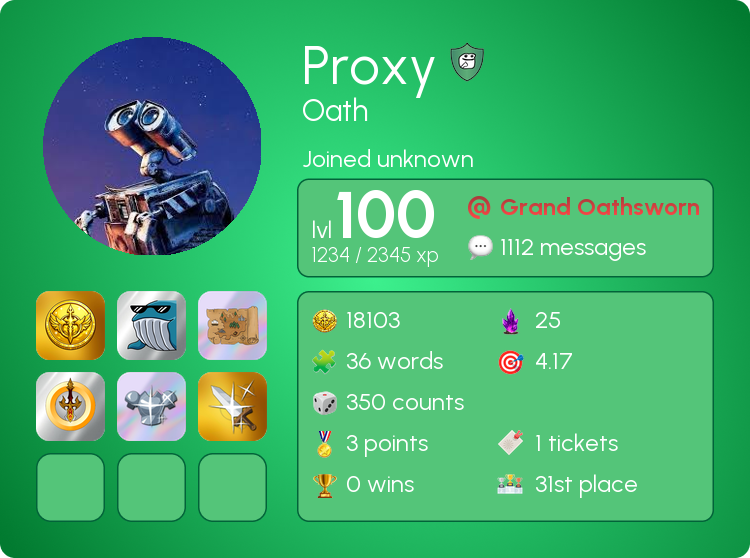
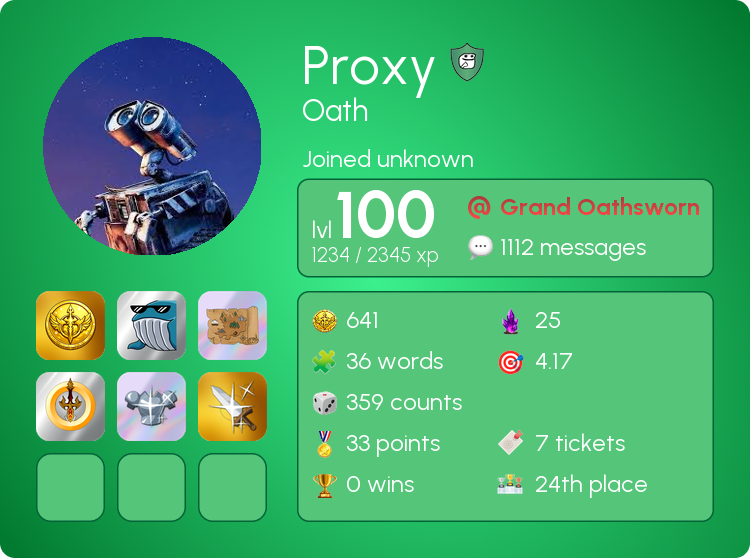
Changes to black jack ++

diff --git a/economy/gamba/blackjack_view.py b/economy/gamba/blackjack_view.py
@@ -4,12 +4,7 @@ import discord
 from google.cloud import firestore
 
 from economy.gamba.blackjack import add_card, add_dealer_card, get_value
-from economy.gamba.generate_blackjack import (
-    BG,
-    CARD_BACK,
-    CARD_CACHE,
-    generate_blackjack,
-)
+from economy.gamba.generate_blackjack import BG, CARD_BACK, CARD_CACHE
 from economy.gamba.utils import unlock_coins
 from firebase_client import db
 
@@ -20,28 +15,34 @@ class BlackjackView(discord.ui.View):
         self.user = user
         self.dealer = dealer
         self.deck = deck
-        self.locked = False
-        self.message = None
         self.wager = wager
+
+        self.locked = False
         self.has_hit = False
+        self.message = None
+
         self.table_image = BG.copy()
-        self._draw_initial_cards()
+        self._render_table()
 
     async def payout(self, user_id, amount):
-        user_ref = db.collection("users").document(str(user_id))
-        user_ref.update({"coins": firestore.Increment(amount)})
+        db.collection("users").document(str(user_id)).update(
+            {"coins": firestore.Increment(amount)}
+        )
 
-    def _draw_initial_cards(self):
+    # Render table
+
+    def _render_table(self, hide_dealer=True):
+        self.table_image = BG.copy()
+
+        # Player cards
         for i, card in enumerate(self.user):
             img = CARD_CACHE[card]
             self.table_image.paste(img, (58 + i * 117, 254), img)
 
+        # Dealer cards
         for i, card in enumerate(self.dealer):
-            if i == 0:
-                img = CARD_CACHE[card]
-                self.table_image.paste(img, (58 + i * 117, 52), img)
-            else:
-                self.table_image.paste(CARD_BACK, (58 + i * 117, 52), CARD_BACK)
+            img = CARD_BACK if hide_dealer and i > 0 else CARD_CACHE[card]
+            self.table_image.paste(img, (58 + i * 117, 52), img)
 
     def _to_file(self):
         buffer = BytesIO()
@@ -49,70 +50,101 @@ class BlackjackView(discord.ui.View):
         buffer.seek(0)
         return discord.File(buffer, filename="table.png")
 
-    @discord.ui.button(label="Hit", style=discord.ButtonStyle.success)
-    async def hit(self, interaction: discord.Interaction, button: discord.ui.Button):
-        await interaction.response.defer()
-        self.user, self.deck = await add_card(self.user, self.deck)
-        self.has_hit = True
+    # Helper functions
+
+    def disable_surrender(self):
         for child in self.children:
             if isinstance(child, discord.ui.Button) and child.label == "Surrender":
                 child.disabled = True
-        new_card = self.user[-1]
-        img = CARD_CACHE[new_card]
 
-        self.table_image.paste(img, (58 + (len(self.user) - 1) * 117, 254), img)
+    async def dealer_turn(self):
+        self.dealer, self.deck = await add_dealer_card(self.dealer, self.deck)
+        self._render_table(hide_dealer=False)
 
+    async def resolve_game(self, user_total, dealer_total, blackjack=False):
+        unlock_coins(self.user.id, self.wager)
+
+        if dealer_total > 21:
+            await self.payout(self.user.id, self.wager)
+            return (
+                f"<:GoobHeart:1459836996381048863> Dealer busted, "
+                f"you won <:oathcoin:1462999179998531614>{self.wager * 2}!"
+            )
+
+        if dealer_total > user_total:
+            await self.payout(self.user.id, -self.wager)
+            return (
+                f"<:GoobCrying:1457956174174617651> Dealer wins, "
+                f"you lost <:oathcoin:1462999179998531614>{self.wager}..."
+            )
+
+        if dealer_total < user_total:
+            payout = int(self.wager * 1.5) if blackjack else self.wager
+            winnings = int(self.wager * 2.5) if blackjack else self.wager * 2
+
+            await self.payout(self.user.id, payout)
+
+            if blackjack:
+                return (
+                    f"<:GoobShock:1463149045731299328> Blackjack! You won "
+                    f"<:oathcoin:1462999179998531614>{winnings}!"
+                )
+            else:
+                return (
+                    f"<:GoobHeart:1459836996381048863> You won "
+                    f"<:oathcoin:1462999179998531614>{winnings}!"
+                )
+
+        return (
+            f"<:mapClown:1484474701798707240> Push, "
+            f"gained back <:oathcoin:1462999179998531614>{self.wager}"
+        )
+
+    async def finish_game(self, result, user_total, dealer_total):
+        self.stop()
+        await self.message.edit(
+            content=f"{result}\nYou: {user_total} | Dealer: {dealer_total}",
+            attachments=[self._to_file()],
+            view=None,
+        )
+
+    # Buttons
+
+    @discord.ui.button(label="Hit", style=discord.ButtonStyle.success)
+    async def hit(self, interaction: discord.Interaction, button: discord.ui.Button):
+        await interaction.response.defer()
+
+        self.user, self.deck = await add_card(self.user, self.deck)
+        self.has_hit = True
+        self.disable_surrender()
+
+        self._render_table()
         file = self._to_file()
 
         user_total = await get_value(self.user)
 
+        # Bust
         if user_total > 21:
-            unlock_coins(interaction.user.id, self.wager)
-            await self.payout(interaction.user.id, -self.wager)
+            unlock_coins(self.user.id, self.wager)
+            await self.payout(self.user.id, -self.wager)
+
             self.stop()
             return await self.message.edit(
-                content=f"<:GoobCrying:1457956174174617651> You busted with {user_total}, and lost <:oathcoin:1462999179998531614>{self.wager}",
+                content=f"<:GoobCrying:1457956174174617651> You busted with {user_total}, "
+                f"and lost <:oathcoin:1462999179998531614>{self.wager}",
                 view=None,
                 attachments=[file],
             )
-        elif user_total == 21:
-            self.dealer, self.deck = await add_dealer_card(self.dealer, self.deck)
-            self.table_image = BG.copy()
 
-            for i, card in enumerate(self.user):
-                img = CARD_CACHE[card]
-                self.table_image.paste(img, (58 + i * 117, 254), img)
-
-            for i, card in enumerate(self.dealer):
-                img = CARD_CACHE[card]
-                self.table_image.paste(img, (58 + i * 117, 52), img)
-
-            file = self._to_file()
+        # Blackjack
+        if user_total == 21:
+            await self.dealer_turn()
             dealer_total = await get_value(self.dealer)
-            unlock_coins(interaction.user.id, self.wager)
 
-            if dealer_total > 21:
-                await self.payout(interaction.user.id, self.wager)
-                result = f"<:GoobHeart:1459836996381048863> Dealer busted, you won, and got <:oathcoin:1462999179998531614>{self.wager * 2}!"
+            result = await self.resolve_game(user_total, dealer_total, blackjack=True)
+            return await self._finish_game(result, user_total, dealer_total)
 
-            elif dealer_total > user_total:
-                result = f"<:GoobCrying:1457956174174617651> Dealer wins, you lost <:oathcoin:1462999179998531614>{self.wager}..."
-                await self.payout(interaction.user.id, -self.wager)
-
-            elif dealer_total < user_total:
-                await self.payout(interaction.user.id, int(self.wager * 1.5))
-                result = f"<:GoobShock:1463149045731299328> Blackjack! You won <:oathcoin:1462999179998531614>{int(self.wager * 2.5)}!"
-
-            else:
-                result = f"<:mapClown:1484474701798707240> Push, gained back <:oathcoin:1462999179998531614>{self.wager}"
-
-            self.stop()
-            return await self.message.edit(
-                content=f"{result}\nYou: {user_total} | Dealer: {dealer_total}",
-                view=None,
-                attachments=[file],
-            )
-
+        # Continue game
         await self.message.edit(
             content=f"Your cards: {user_total}",
             view=self,
@@ -125,46 +157,18 @@ class BlackjackView(discord.ui.View):
             return await interaction.response.send_message(
                 "Please wait for the dealer's turn.", ephemeral=True
             )
+
         self.locked = True
 
         user_total = await get_value(self.user)
+
+        await self.dealer_turn()
         dealer_total = await get_value(self.dealer)
 
-        self.dealer, self.deck = await add_dealer_card(self.dealer, self.deck)
-        self.table_image = BG.copy()
+        result = await self.resolve_game(user_total, dealer_total)
+        await self.finish_game(result, user_total, dealer_total)
 
-        for i, card in enumerate(self.user):
-            img = CARD_CACHE[card]
-            self.table_image.paste(img, (58 + i * 117, 254), img)
-
-        for i, card in enumerate(self.dealer):
-            img = CARD_CACHE[card]
-            self.table_image.paste(img, (58 + i * 117, 52), img)
-
-        file = self._to_file()
-        dealer_total = await get_value(self.dealer)
-        unlock_coins(interaction.user.id, self.wager)
-        if dealer_total > 21:
-            await self.payout(interaction.user.id, self.wager)
-            result = f"<:GoobHeart:1459836996381048863> Dealer busted, you won, and got <:oathcoin:1462999179998531614>{self.wager * 2}!"
-
-        elif dealer_total > user_total:
-            result = f"<:GoobCrying:1457956174174617651> Dealer wins, you lost <:oathcoin:1462999179998531614>{self.wager}..."
-            await self.payout(interaction.user.id, -self.wager)
-        elif dealer_total < user_total:
-            await self.payout(interaction.user.id, self.wager)
-            result = f"<:GoobHeart:1459836996381048863> You won, and got <:oathcoin:1462999179998531614>{self.wager * 2}!"
-
-        else:
-            result = f"<:mapClown:1484474701798707240> Push, gained back <:oathcoin:1462999179998531614>{self.wager}"
-
-        self.stop()
         self.locked = False
-        return await self.message.edit(
-            content=f"{result}\nYou: {user_total} | Dealer: {dealer_total}",
-            attachments=[file],
-            view=None,
-        )
 
     @discord.ui.button(label="Surrender", style=discord.ButtonStyle.danger)
     async def surrender(
@@ -174,9 +178,12 @@ class BlackjackView(discord.ui.View):
             return await interaction.response.send_message(
                 "You can only surrender before taking a hit.", ephemeral=True
             )
-        unlock_coins(interaction.user.id, self.wager)
-        await self.payout(interaction.user.id, -(self.wager // 2))
+
+        unlock_coins(self.user.id, self.wager)
+        await self.payout(self.user.id, -(self.wager // 2))
+
         self.stop()
-        return await interaction.response.edit_message(
-            content=f"You surrendered and got back {self.wager // 2}.", view=None
+        await interaction.response.edit_message(
+            content=f"You surrendered and got back {self.wager // 2}.",
+            view=None,
         )

diff --git a/testing.py b/testing.py
@@ -724,16 +724,16 @@ if __name__ == "__main__":
     # asyncio.run(find_users_with_doom_card())
     # get_all_users()
     # choose_new_word()
-    # asyncio.run(
-    #    add_item(
-    #        "696254108788719627",
-    #        "Smoked Card",
-    #        "card",
-    #        "smoked_card.png",
-    #        "custom.png",
-    #        "rare",
-    #    )
-    # )
+    asyncio.run(
+        add_item(
+            "620750060233293824",
+            "Eldrazi Titans",
+            "card",
+            "groot1_card.png",
+            "groot1_card_item.png",
+            "legendary",
+        )
+    )
     # asyncio.run(test_fetch_call())
 # asyncio.run(generate_inventory(userId="292040660696039424"))
 # asyncio.run(backfill_ccids())

diff --git a/cogs/economy.py b/cogs/economy.py
@@ -272,14 +272,11 @@ class Economy(commands.Cog):
             return await interaction.response.send_message(
                 "Select a number higher than 0."
             )
-        user_coins = (
-            db.collection("users")
-            .document(str(interaction.user.id))
-            .get()
-            .to_dict()
-            .get("coins", 0)
-        )
-        if user_coins < coins:
+        user_doc = db.collection("users").document(str(interaction.user.id))
+        user_data = user_doc.to_dict() or {}
+        user_coins = user_data.get("coins", 0)
+        user_locked_coins = user_data.get("locked_coins", 0)
+        if user_coins - user_locked_coins < coins:
             return await interaction.response.send_message(
                 "You cannot donate more coins you have."
             )

diff --git a/user_profile/image_generation.py b/user_profile/image_generation.py
@@ -79,7 +79,7 @@ async def generate_profile_card(
     outline_color = "#FFFFFF"
     outline_width = 0
     gold_card = card.get("id") == "Sign Card"
-    bot_breaker = card.get("id") == "BotBreaker Card"
+    bot_breaker = card.get("id") == "BotBreaker"
     if target.joined_at:
         day = target.joined_at.day
         joined_text = f"Joined {day}. {target.joined_at.strftime('%b %Y')}"